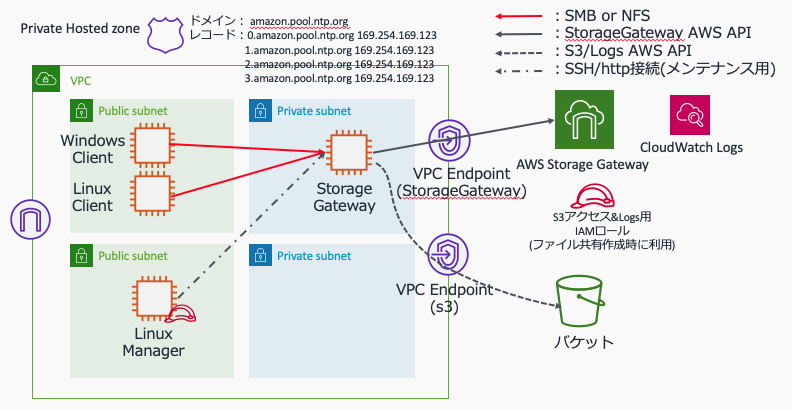
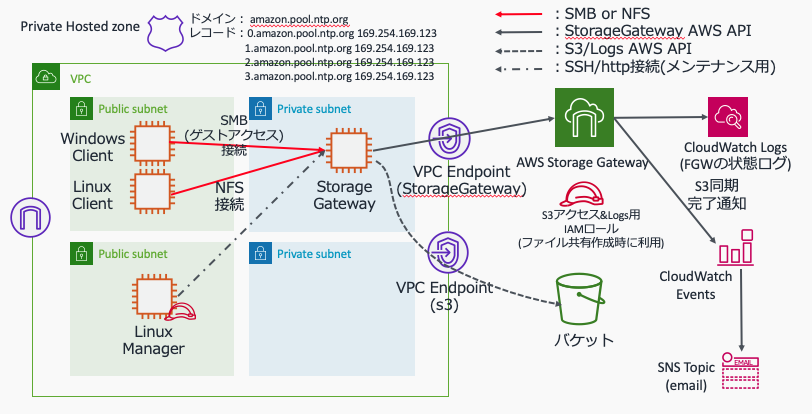
add figures

diff --git a/README.md b/README.md
@@ -1498,6 +1498,7 @@ aws --profile ${PROFILE} storagegateway \
         --gateway-arn ${GATEWAY_ARN};
 ```
 ### (11)-(c) イベント連携(リフレッシュ完了通知のイベント連携)
+<img src="./Documents/Step11.png" whdth=500>
 
 ### (i)SNS準備
 ```shell
@@ -1628,3 +1629,59 @@ aws --profile ${PROFILE} \
         --folder-list ${FOLDER_LIST} \
         --recursive  ;
 ```
+### (11)-(d) イベント連携(ファイルアップロード完了通知)
+(11)-(c)のリフレッシュ完了通知と同じSNS Topicを利用し、ファイルのアップロード完了通知を行います。本作業の前提として、(11)-(c)の設定済みであることとします。
+#### (i) CloudWatch Events設定
+```shell
+#構成情報の取得
+GATEWAY_ARN=$(aws --profile ${PROFILE} --output text storagegateway list-gateways |awk '/SgPoC-Gateway-1/{ print $4 }')
+
+FILE_SHARE_ARNs=$(aws --profile ${PROFILE} --output text \
+    storagegateway list-file-shares \
+        --gateway-arn ${GATEWAY_ARN} \
+    --query FileShareInfoList[].FileShareARN )
+
+TOPIC_ARN=$( aws --profile ${PROFILE} --output text \
+    sns list-topics | awk '/Sgw-Topic/{print $2}' )
+
+#ルールパターン用JSON生成
+EVENT_PATTERN='
+{
+  "source": [
+    "aws.storagegateway"
+  ],
+  "resources":['"$( echo $(for i in $FILE_SHARE_ARNs;do echo '"'"${i}"'",';done)|sed -e 's/,$//')"'
+  ],
+  "detail-type": [
+    "Storage Gateway File Upload Event"
+  ]
+}'
+
+# Event Rule作成
+aws --profile ${PROFILE} --output text events \
+    put-rule \
+        --name SgwPoc-Finish-File-Upload \
+        --description "Receive notification of completion of specified file gateways files upload and notify SNS topic" \
+        --event-pattern "${EVENT_PATTERN}" \
+        --schedule-expression "" \
+        --state ENABLED ;
+
+#ルールにターゲット設定
+aws --profile ${PROFILE} events \
+    put-targets \
+        --rule SgwPoc-Finish-File-Upload  \
+        --targets "Id=1,Arn=${TOPIC_ARN},Input=,InputPath=";
+```
+
+#### (ii) アップロード完了通知設定
+```shell
+#Notificationの設定
+#何らかファイルコピー実行と同時に、下記のnotify-when-uploadedを実行
+
+FILE_SHARE_ARN="arn:aws:storagegateway:ap-northeast-1:664154733615:share/share-6C4D2D0F"
+aws --profile ${PROFILE} storagegateway \
+    notify-when-uploaded \
+        --file-share-arn ${FILE_SHARE_ARN};
+```
+
+
